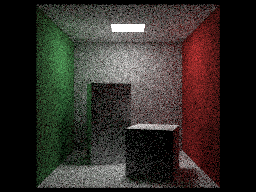
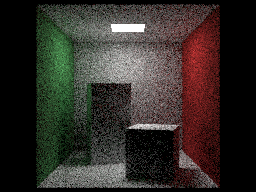
incorporated seed implementation to stratified sampler

diff --git a/main.py b/main.py
@@ -80,7 +80,7 @@ def main(filename: str = 'output',output_res: tuple = (200,100),num_samples= 100
     seed = 123
 
     #sampler = uniform_sampler(seed)
-    sampler = stratified_sampler(num_samples)
+    sampler = stratified_sampler(num_samples,seed)
     cam = camera(lookfrom,lookat,vec3(0,1,0),vfov,float(nx)/float(ny),aperture,dist_to_focus,0.0,1.0)
     with tqdm(total = ny * nx) as pbar:
         for j in range(ny-1 ,-1,-1):

diff --git a/src/core/sampler.py b/src/core/sampler.py
@@ -47,6 +47,8 @@ N is square of the number of stratified samples per x,y dimension
 class stratified_sampler(sampler):
 	def __init__(self,N: int, seed: float = None): 
 		assert is_square(N),"For stratified sampler,N must be a square number"
+		if seed is not None:
+			random.seed(seed)
 		self.sqrt_N = int(math.sqrt(N))
 	def generate_sample_uv(self,s: int,t: int):
 		u = (s + random.random())/(self.sqrt_N)
